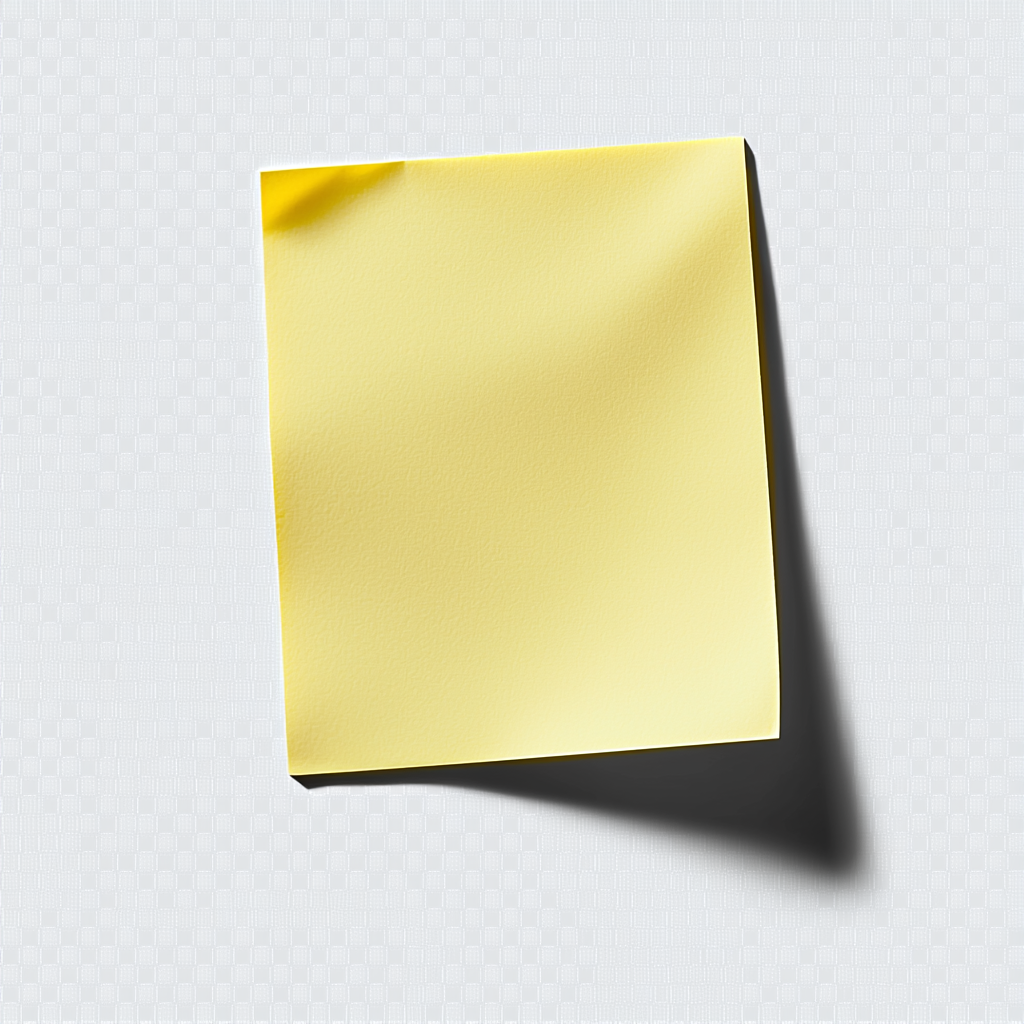
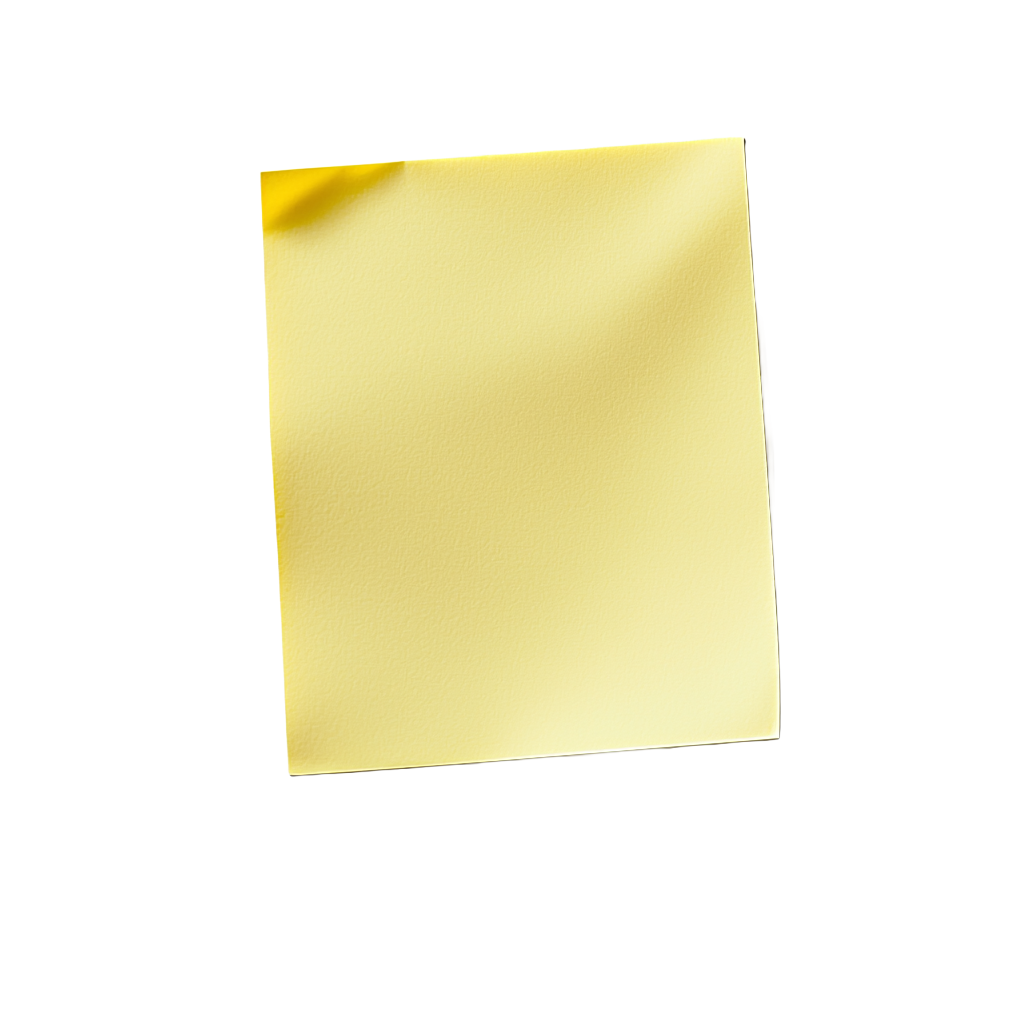
Use transparent PNG post-it images as backgrounds
4 Midjourney post-its with backgrounds removed in Photoshop, cycled
across all notes. Text overlays on top of the images.

diff --git a/css/style.css b/css/style.css
@@ -749,70 +749,22 @@ body {
 .full-postit {
   position: absolute;
   width: 14cqw;
-  padding: 1.8cqw 1.4cqw 1.4cqw;
+  aspect-ratio: 1;
+  padding: 12% 10% 10%;
   font-family: var(--font-handwriting);
   font-size: 1.3cqw;
   color: #2a2a2a;
   line-height: 1.4;
   cursor: default;
-  transition: transform 0.3s ease, box-shadow 0.3s ease;
+  transition: transform 0.3s ease;
   overflow: hidden;
-  /* Realistic post-it shadow: slight lift on bottom-right */
-  box-shadow:
-    1px 1px 3px rgba(0,0,0,0.12),
-    3px 5px 8px rgba(0,0,0,0.18),
-    0 0 1px rgba(0,0,0,0.1);
-  /* Paper texture — subtle noise via gradient */
-  background-image:
-    linear-gradient(
-      180deg,
-      rgba(0,0,0,0.06) 0%,
-      transparent 4%,
-      transparent 100%
-    );
-  background-blend-mode: multiply;
-  /* Slightly imperfect shape */
-  clip-path: polygon(
-    0% 0%, 100% 0.3%, 99.7% 99.5%, 0.5% 100%
-  );
+  background-size: 100% 100%;
+  background-repeat: no-repeat;
+  background-color: transparent;
 }
 .full-postit:hover {
-  transform: scale(1.08) rotate(-1deg);
-  box-shadow:
-    2px 3px 6px rgba(0,0,0,0.15),
-    6px 10px 20px rgba(0,0,0,0.22);
+  transform: scale(1.08);
   z-index: 5;
-}
-/* Sticky glue strip at top */
-.full-postit::before {
-  content: '';
-  position: absolute;
-  top: 0;
-  left: 0;
-  right: 0;
-  height: 12%;
-  background: linear-gradient(
-    180deg,
-    rgba(0,0,0,0.05) 0%,
-    transparent 100%
-  );
-  pointer-events: none;
-}
-/* Curled bottom-right corner */
-.full-postit::after {
-  content: '';
-  position: absolute;
-  bottom: 0;
-  right: 0;
-  width: 20%;
-  height: 20%;
-  background: linear-gradient(
-    225deg,
-    rgba(0,0,0,0.08) 0%,
-    rgba(0,0,0,0.03) 30%,
-    transparent 60%
-  );
-  pointer-events: none;
 }
 
 .pinboard-photo {

diff --git a/js/app.js b/js/app.js
@@ -195,11 +195,14 @@
       { top: '66%', left: '57%' },
     ];
 
+    const POSTIT_IMAGES = ['postit-1.png', 'postit-5.png', 'postit-7.png', 'postit-10.png'];
+
     POSTIT_NOTES.forEach((note, i) => {
       const pos = postitPositions[i] || { top: `${5 + (i * 8) % 80}%`, left: `${2 + (i * 15) % 55}%` };
+      const img = POSTIT_IMAGES[i % POSTIT_IMAGES.length];
       const div = document.createElement('div');
       div.className = 'full-postit';
-      div.style.background = note.color;
+      div.style.backgroundImage = `url('assets/${img}')`;
       div.style.transform = `rotate(${note.rotation}deg)`;
       div.style.top = pos.top;
       div.style.left = pos.left;
